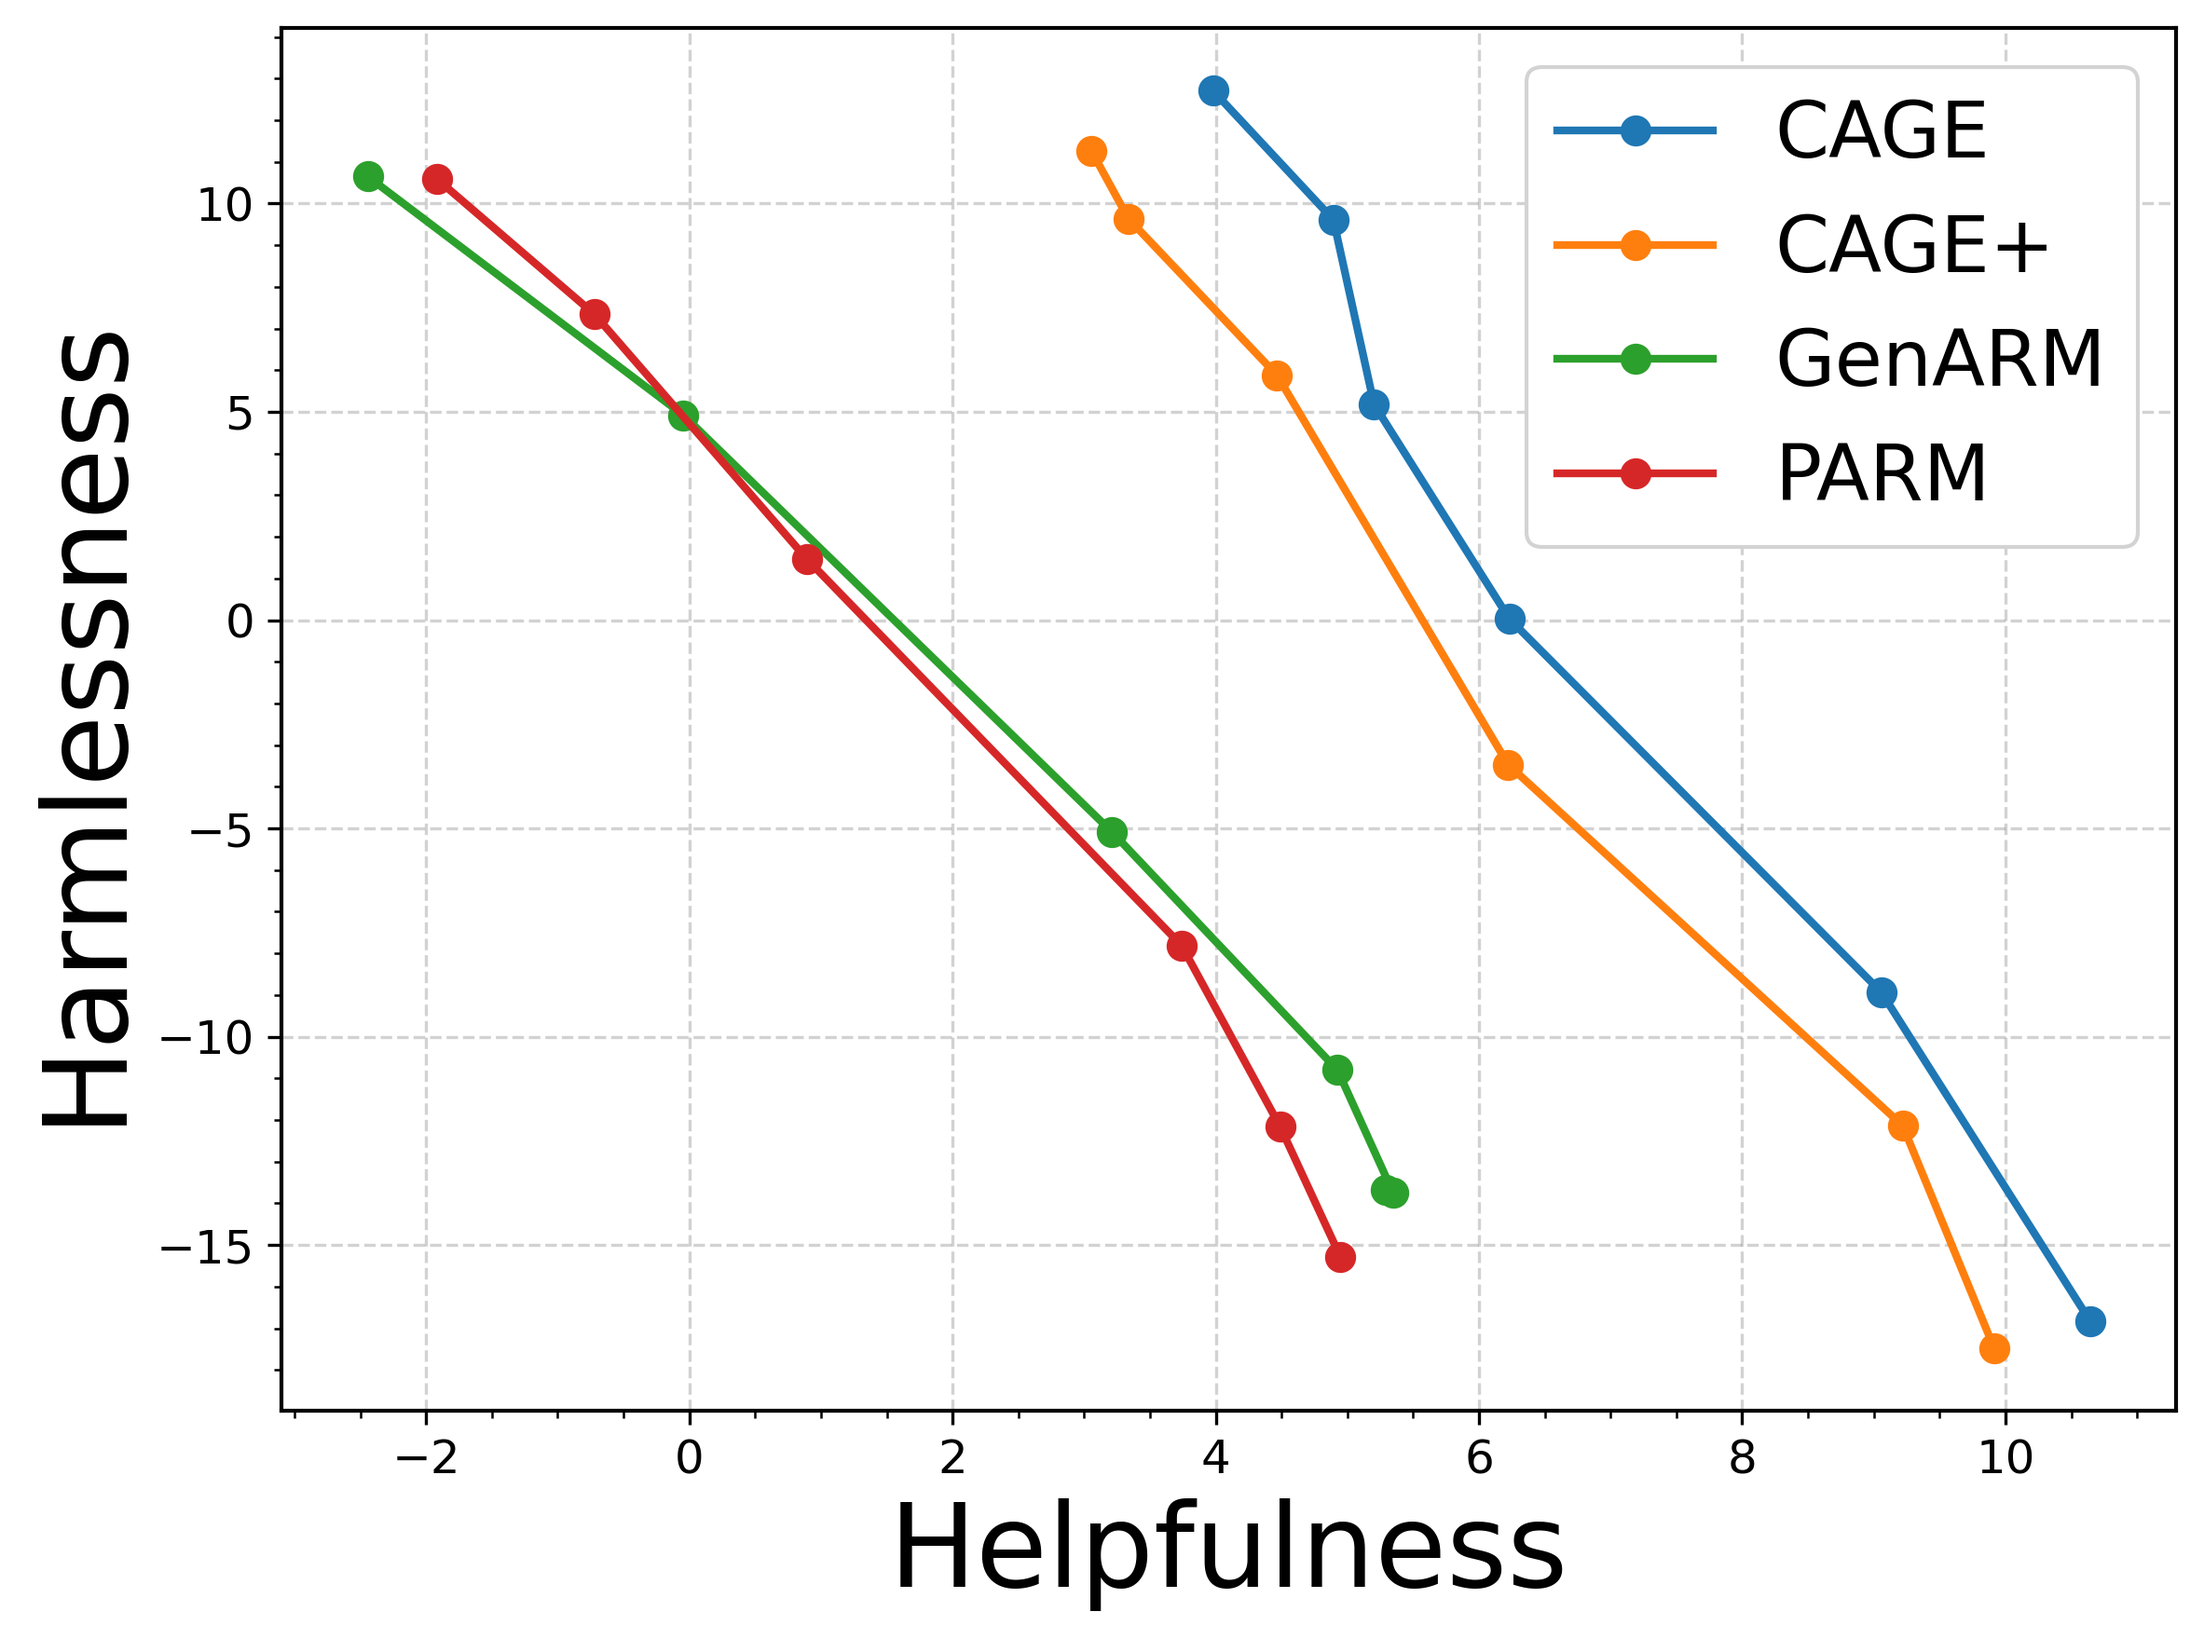
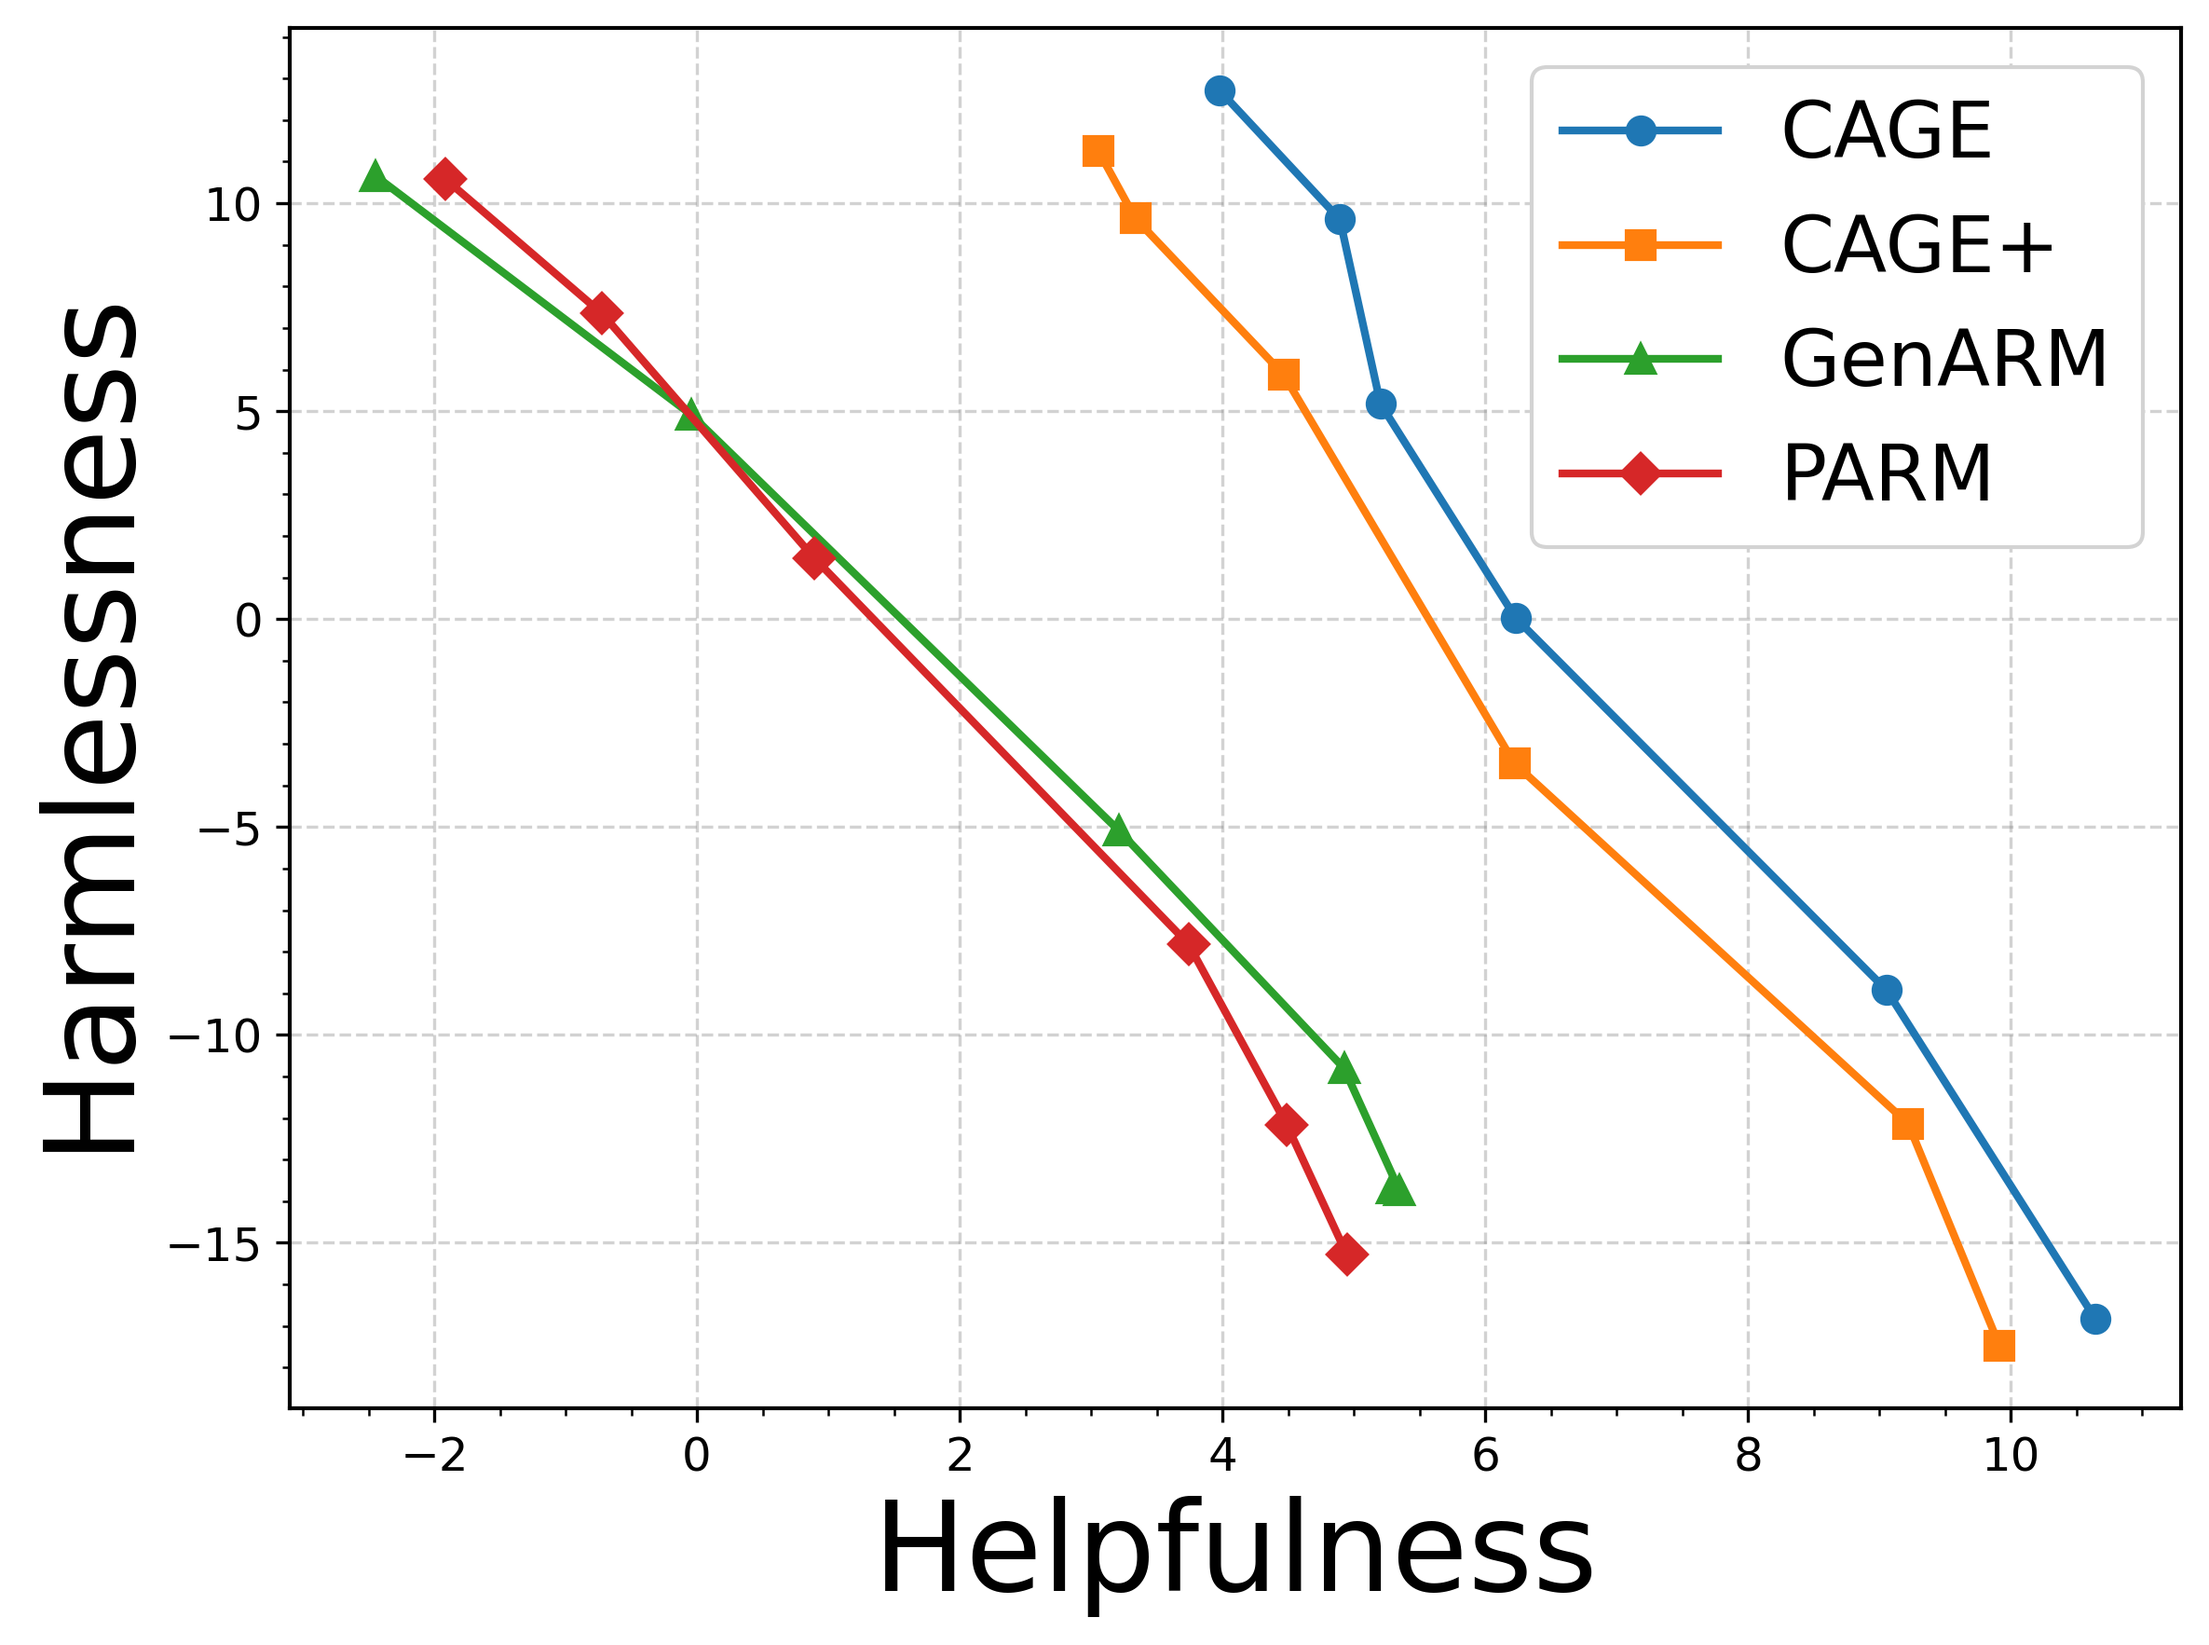
Upload common-agency to CAGE branch

diff --git a/code/evaluation/plot_pareto_tau.py b/code/evaluation/plot_pareto_tau.py
@@ -47,8 +47,8 @@ PARM_BASELINE_DIR = BASE_DIR / "results_parm"
 # ============================================================
 # tau and k
 # ============================================================
-TAU = 0.2
-K = 50
+TAU = 0.1
+K = 100
 
 SENS_DIR = BASE_DIR / "sensitivity analysis_new"
 RUN_DIR = SENS_DIR / f"tau={TAU}_N={K}"
@@ -532,7 +532,7 @@ def main():
         ax,
         epec_parm_points,
         label="CAGE+",
-        marker_style="o",
+        marker_style="s",
         color="tab:orange",
         linestyle="-",
         annotate_offset=(6, 8),
@@ -543,7 +543,7 @@ def main():
         ax,
         genarm_baseline_points,
         label="GenARM",
-        marker_style="o",
+        marker_style="^",
         color="tab:green",
         linestyle="-",
         annotate_offset=(6, 4),
@@ -554,15 +554,15 @@ def main():
         ax,
         parm_baseline_points,
         label="PARM",
-        marker_style="o",
+        marker_style="D",
         color="tab:red",
         linestyle="-",
         annotate_offset=(6, -10),
         annotate=False,
     )
 
-    ax.set_xlabel("Helpfulness", fontsize=30)
-    ax.set_ylabel("Harmlessness", fontsize=30)
+    ax.set_xlabel("Helpfulness", fontsize=32)
+    ax.set_ylabel("Harmlessness", fontsize=32)
 
     # 白底 + 浅灰网格
     ax.grid(
